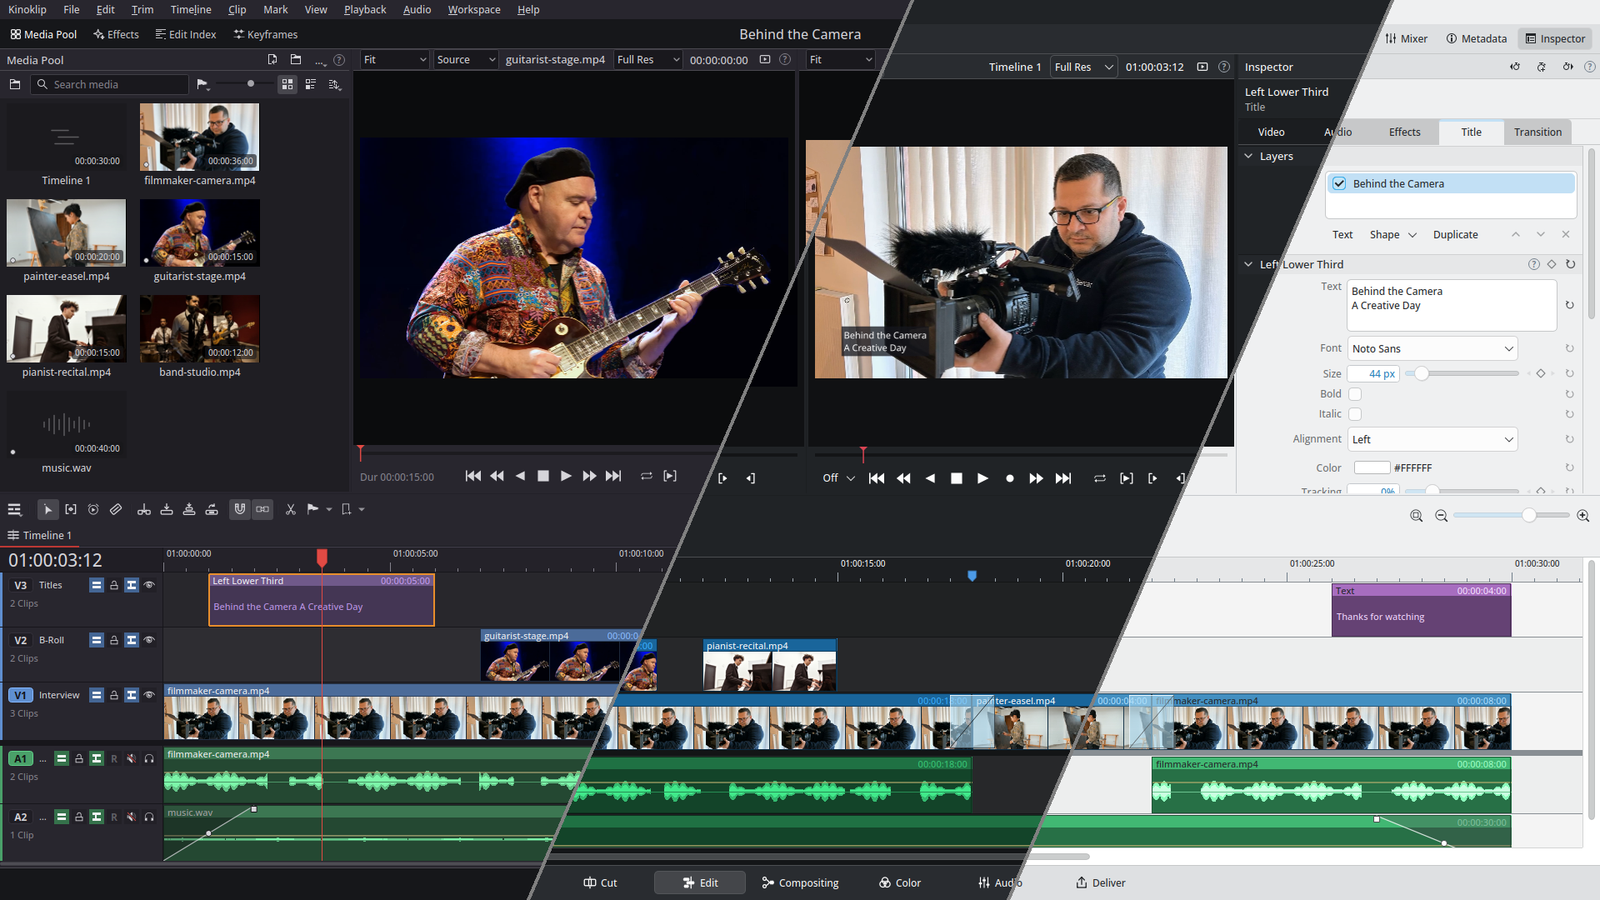
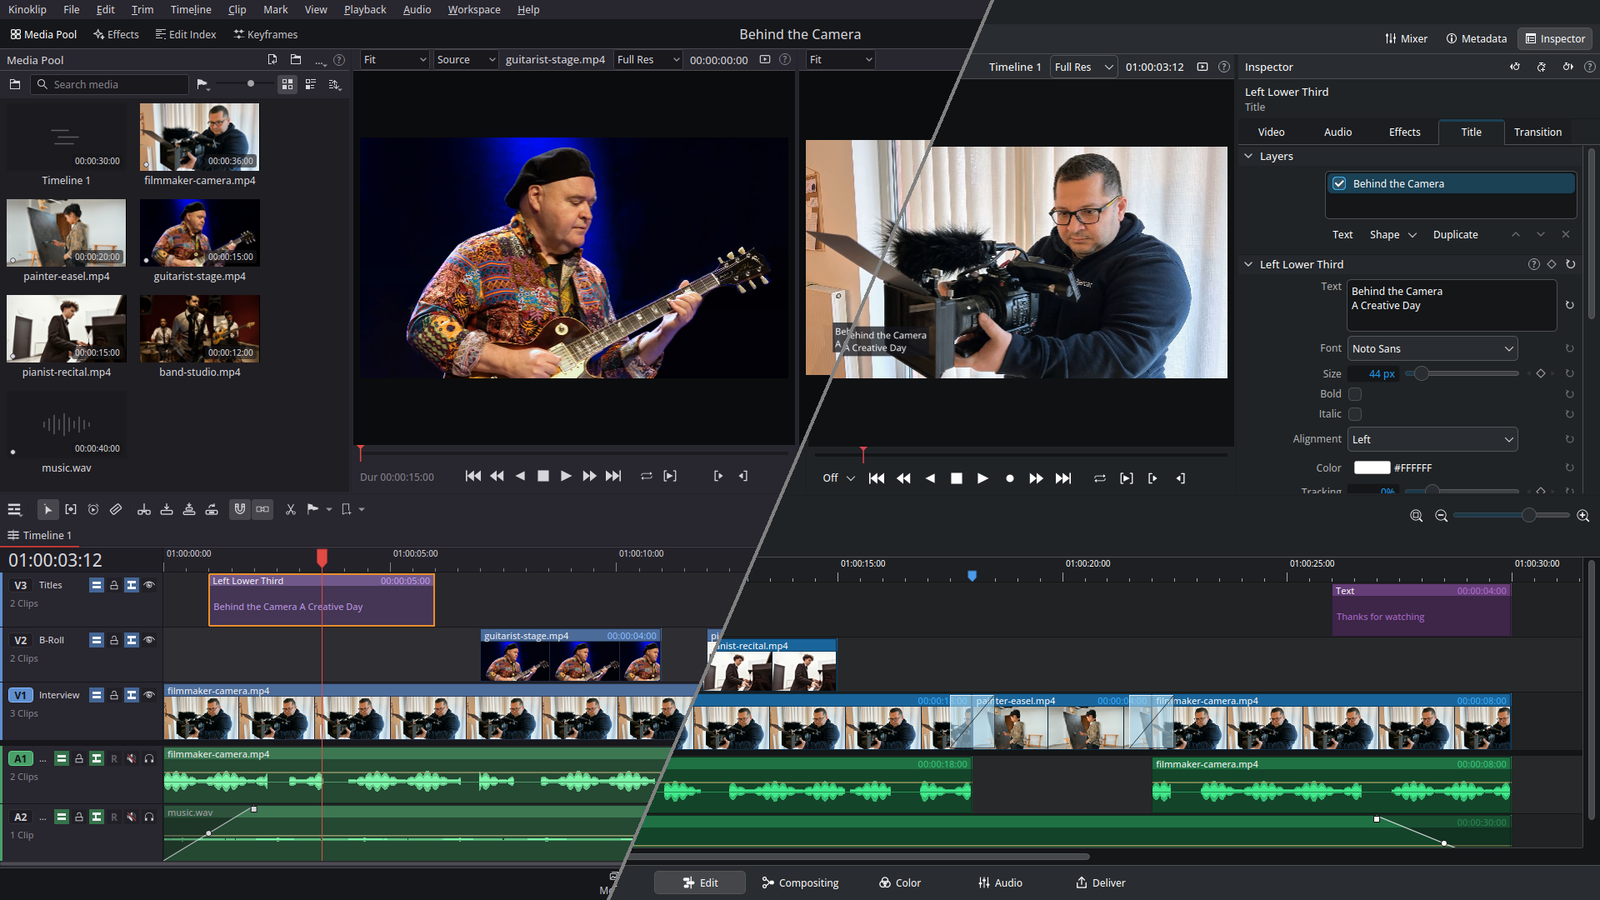
Readme: main picture shows the Kinoklip look and Breeze Dark only, split by one diagonal

diff --git a/scripts/readme_screenshots.py b/scripts/readme_screenshots.py
@@ -3,8 +3,8 @@
 """Makes the screenshots of the readme's Screenshots section (docs/images/readme/).
 
 One picture per page (Media, Cut, Edit, Compositing, Color, Audio, Deliver), a few feature
-shots and themes.png (the Kinoklip look, Breeze Dark and Breeze Light split by two parallel
-diagonals), taken from the real app in the Kinoklip look (Kinoklip widget style and colour
+shots and themes.png (the Kinoklip look and Breeze Dark split by a
+diagonal), taken from the real app in the Kinoklip look (Kinoklip widget style and colour
 scheme, the default) at 1920x1080, then scaled to 1600 px wide and stored as palette PNGs.
 
 The footage is made from five CC0 photos of people doing creative work (scripts/readme-media,
@@ -64,11 +64,11 @@ SHOTS = {
 # The look of every page shot: widget style and colour scheme given on the command line.
 LOOK = ("--widget-style", "Kinoklip", "--color-scheme", "Kinoklip")
 
-# The readme's theme picture: the Edit page in the Kinoklip look, Breeze Dark and Breeze Light,
-# joined along two parallel diagonals (left to right). name: (widget style, colour scheme id).
-THEMES = {"kinoklip": ("Kinoklip", "Kinoklip"), "breeze-dark": ("Breeze", "BreezeDark"),
-          "breeze-light": ("Breeze", "BreezeLight")}
-SPLIT = (0.45, 0.75)  # where the dividing lines cross the middle of the picture (of the width)
+# The readme's theme picture: the Edit page in the Kinoklip look (Kinoklip style and scheme) and
+# in Breeze Dark (Breeze style and scheme), joined along a diagonal (Kinoklip on the left).
+# name: (widget style, colour scheme id).
+THEMES = {"kinoklip": ("Kinoklip", "Kinoklip"), "breeze-dark": ("Breeze", "BreezeDark")}
+SPLIT = (0.5,)  # where the dividing line crosses the middle of the picture (of the width)
 SLOPE = 0.12          # how far each line runs right at the top and left at the bottom (of the width)
 
 

diff --git a/readme.md b/readme.md
@@ -11,10 +11,10 @@
 <a href="https://ko-fi.com/seniormatthew">Support</a>
 </h3>
 
-<a href="docs/images/readme/themes.png"><img src="docs/images/readme/themes.png" width="100%" alt="The Edit page of Kinoklip in the default Kinoklip look, which follows DaVinci Resolve, on the left, then Breeze Dark and Breeze Light, divided by two diagonal lines"></a>
+<a href="docs/images/readme/themes.png"><img src="docs/images/readme/themes.png" width="100%" alt="The Edit page of Kinoklip in the default Kinoklip look, which follows DaVinci Resolve, on the left and Breeze Dark on the right, divided by a diagonal line"></a>
 
 Kinoklip is a non-linear video editor written from scratch in C++20 with Qt 6 and FFmpeg. Its
-pages, layout, behaviour and default shortcuts follow DaVinci Resolve, and so does the default look (Kinoklip widget style and colour scheme). KDE Breeze Dark and Breeze Light are available too.
+pages, layout, behaviour and default shortcuts follow DaVinci Resolve, and so does the default look (Kinoklip widget style and colour scheme). KDE Breeze (Breeze widget style with Breeze Dark or Breeze Light) is available too.
 
 <p align="center"><img src="docs/images/readme/star.svg" height="16" alt="" valign="middle"> If you like Kinoklip, give it a star. It helps a lot!</p>
 
